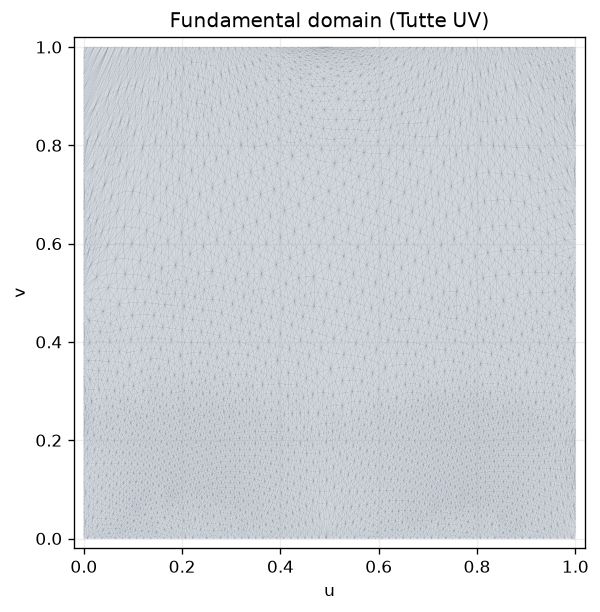
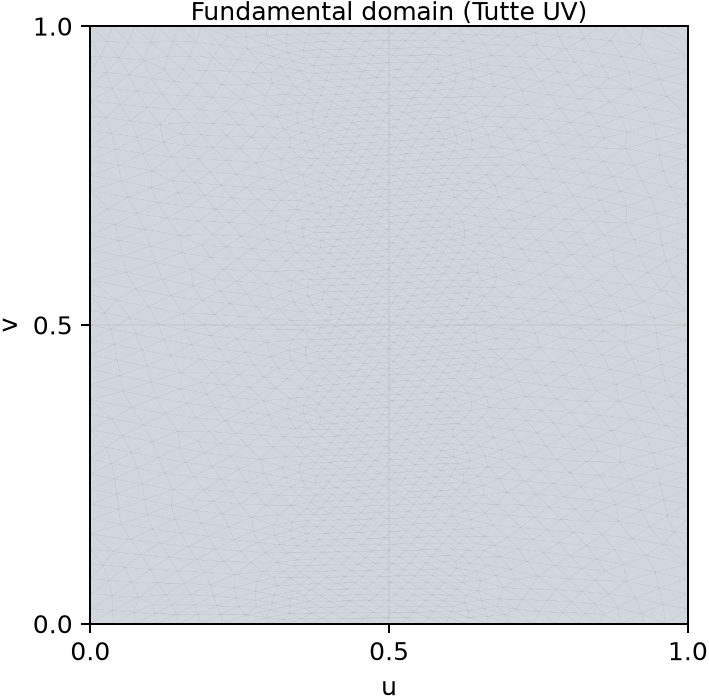
Fix Readme

Changed region(s): [[0.0, 0.0, 1.0, 1.0]]

diff --git a/README.md b/README.md
@@ -86,23 +86,19 @@ pts_on_path = geodesic_mana.find_exact_geodesic_path(
 
 ### Torus fundamental domain (parameterization)
 
-`PlanarLocator` cuts a torus along a pair of generators and builds a planar
-Tutte parameterization of the fundamental domain:
+`PlanarLocator` uses ReebHanTun to find a pair of generators, cuts the torus
+along them, and builds a planar Tutte parameterization of the fundamental
+domain:
 
 ```python
-planar = sc.PlanarLocator(mesh)
+planar = sc.PlanarLocator()
+planar.constructPlanarLocatorReebGraph(mesh)
 gen1_3d, gen2_3d = planar.get_generator_paths_3d()
 uv = planar.get_uv_positions()
 faces_cut = planar.get_cutted_mesh_faces()
 ```
 
-Generators drawn on the surface:
-
-![Two homotopy generators on a torus](docs/images/torus_generators.png)
-
-Corresponding fundamental domain in the UV plane:
-
-![Tutte UV fundamental domain of a torus](docs/images/fundamental_domain.png)
+![ReebHanTun generators (left) and Tutte UV fundamental domain (right)](docs/images/generators_and_fundamental_domain.png)
 
 ## License
 
